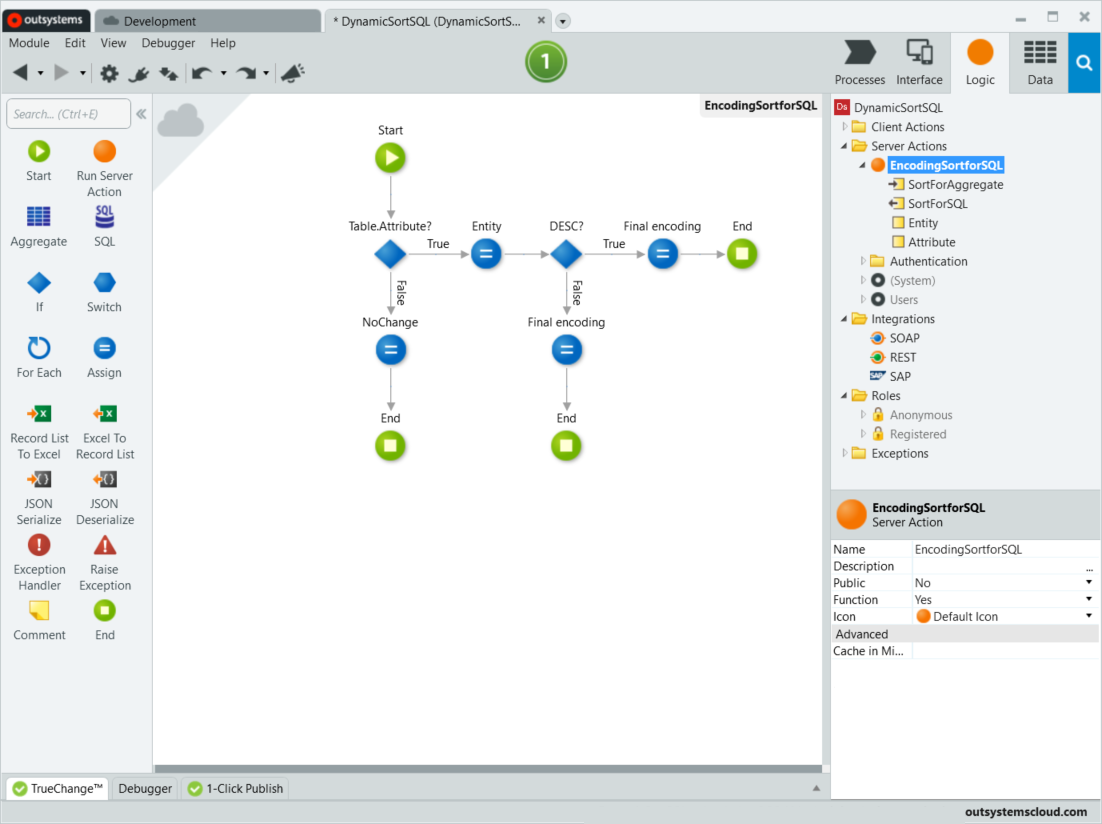
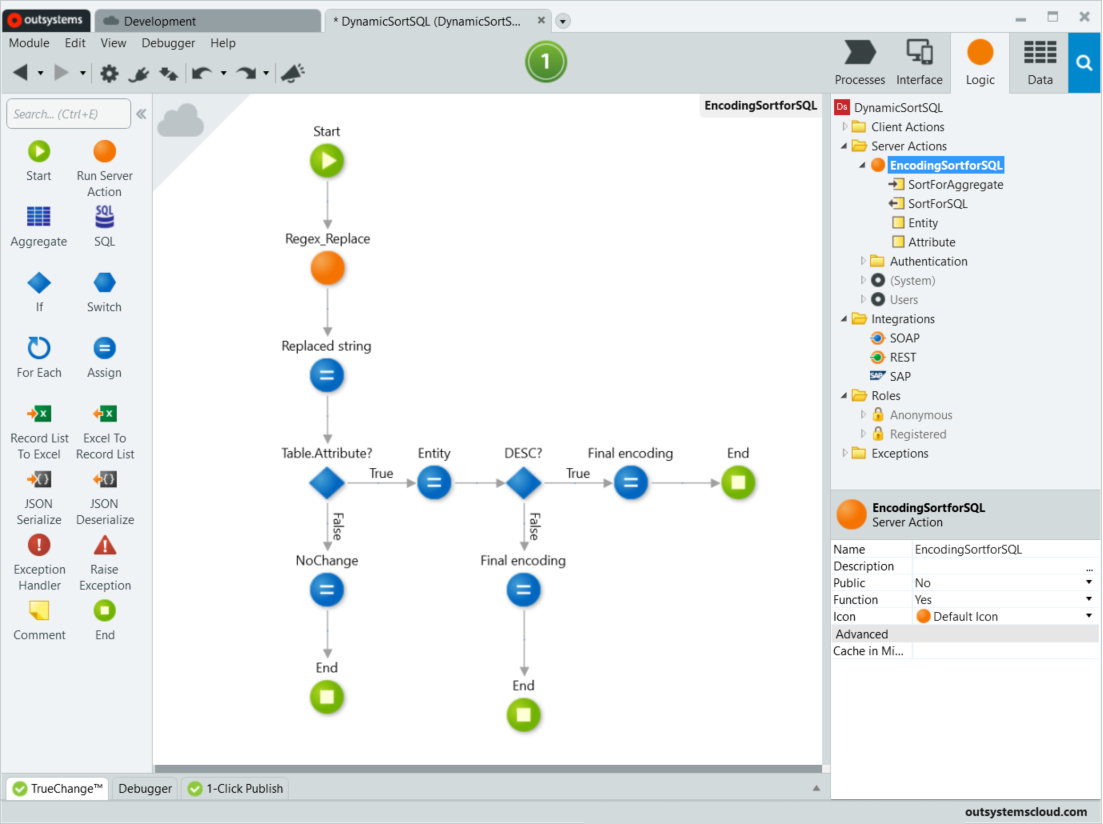
Add Regex_Replace to remove special characters from Sort param

diff --git a/src/development/table-sort-sql/faq.md b/src/development/table-sort-sql/faq.md
@@ -44,7 +44,17 @@ To enable the dynamic sorting in a Table that has a SQL query as the data source
 
     1. Set the **Name** of the new action to `EncodingSortForSQL` and set the **Function** property to **Yes**.
 
-    1. Add an **If** between the **Start** and **End** elements, and set the **Condition** to the following expression:
+    1. Add **Text.Regex_Replace** server action (probably you have to add the dependency to the **Text** extension and **Regex_replace** server action) between the **Start** and **End** elements, and set the following properties:
+        
+        * `Text` = `SortForAggregate`
+        * `Pattern` = `"[^\w.]"`
+        * `Replace` = `""`
+    
+    1. Add an **Assign** between the **Text.Regex_Replace** and **End** elements. Add the following assignment:
+    
+        * `SortForAggregate` = `Regex_Replace.Result`
+
+    1. Add an **If** between the **Assign** and **End** elements, and set the **Condition** to the following expression:
 
             Index(SortForAggregate,".") <> -1
 
